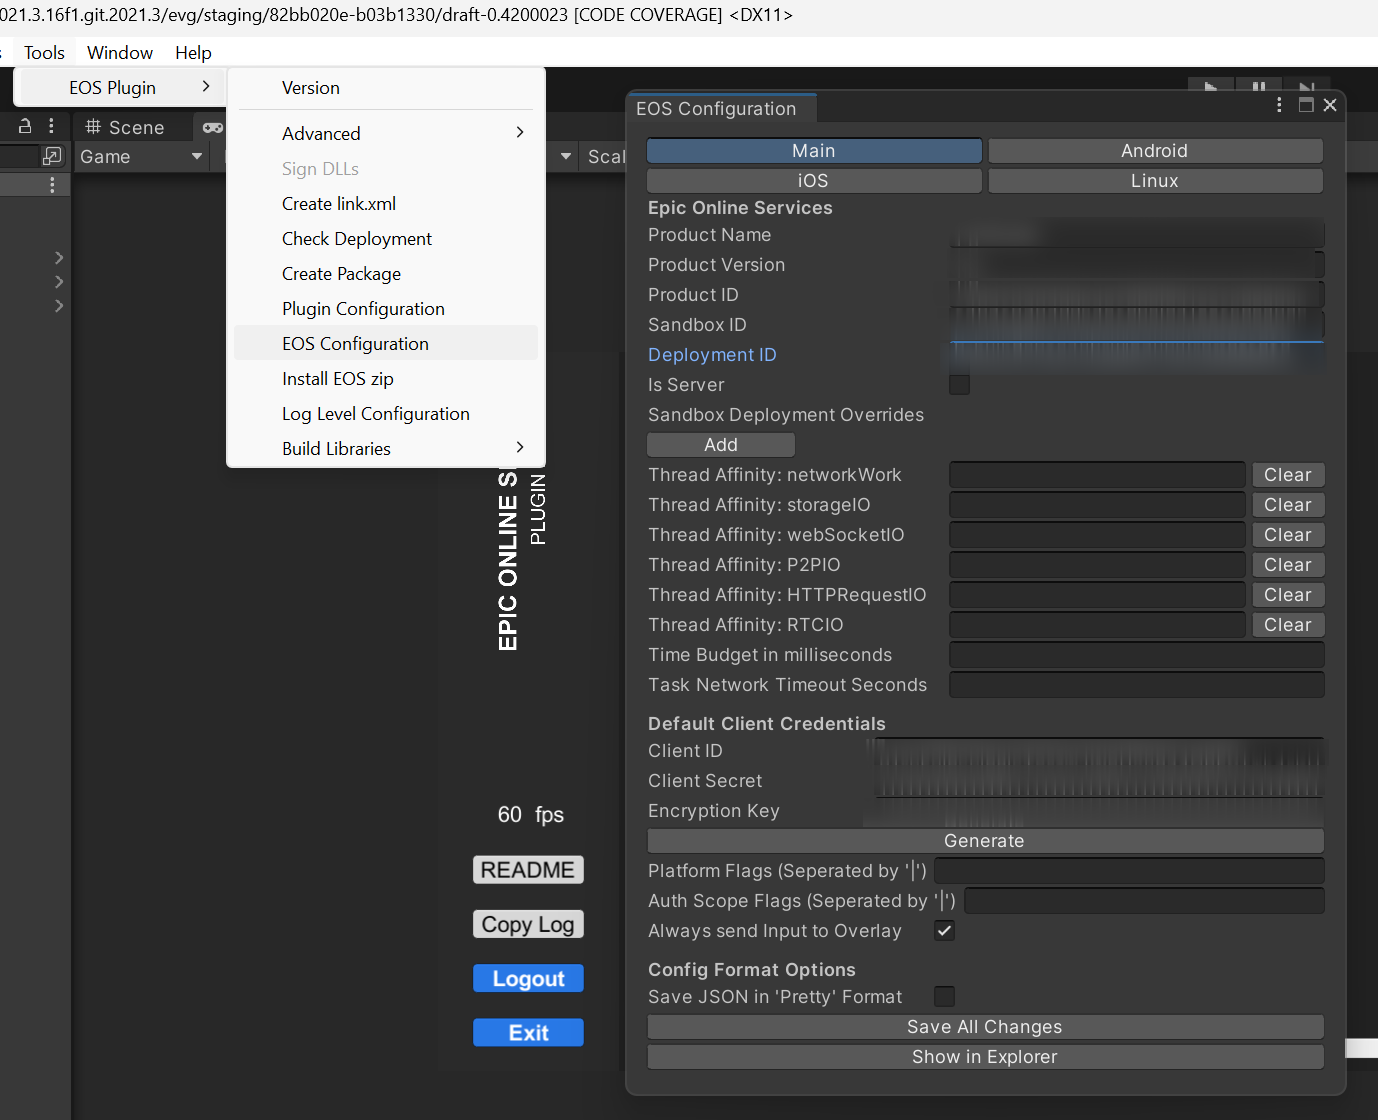
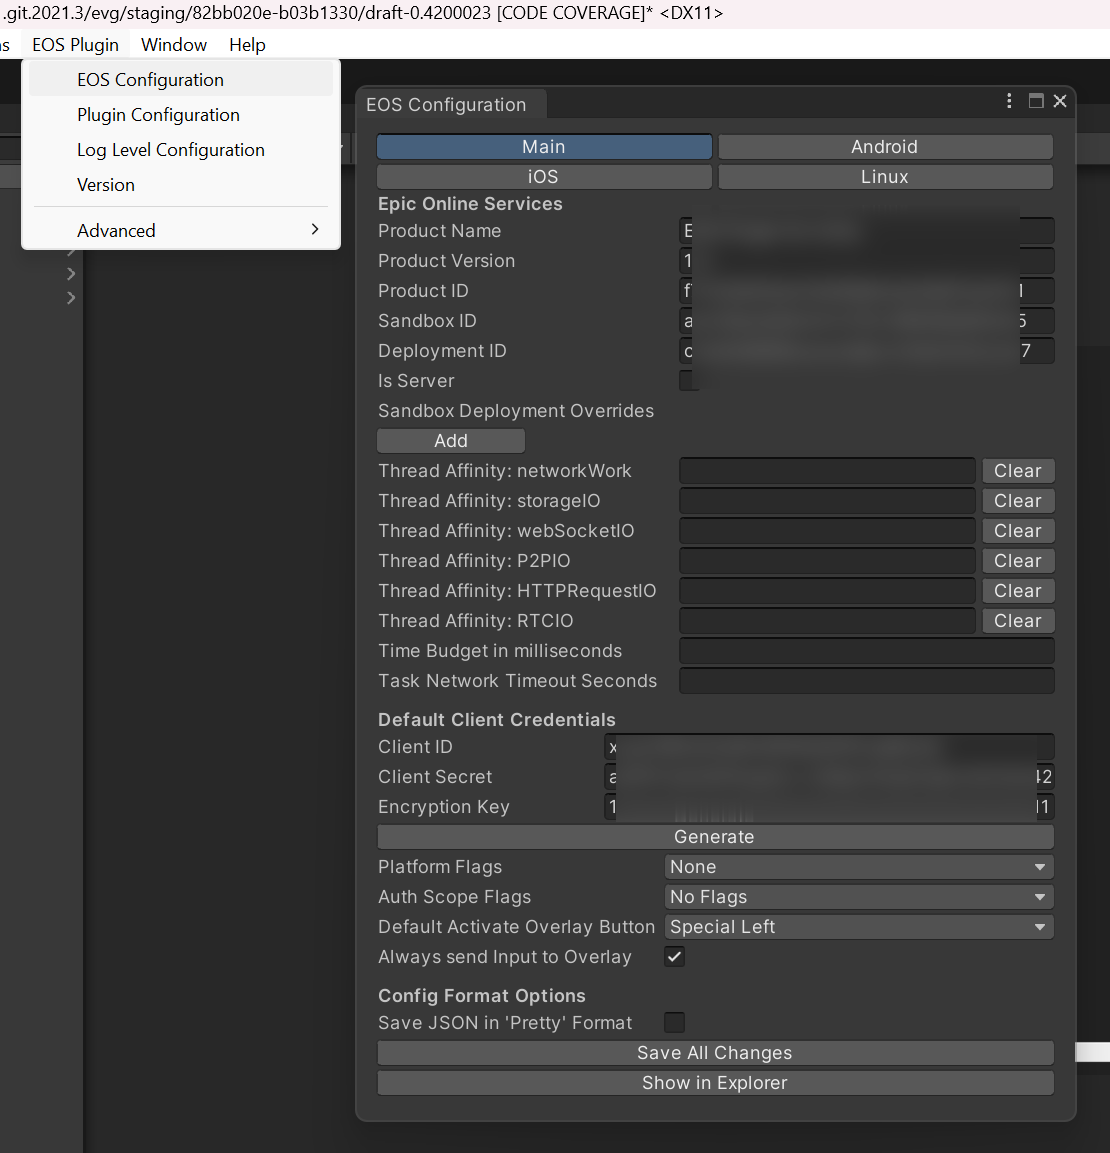
docs: Replacing text and links

Changed region(s): [[0.0, 0.0, 1.0, 1.0]]

diff --git a/com.playeveryware.eos/Documentation~/getting_started_guide/README.md b/com.playeveryware.eos/Documentation~/getting_started_guide/README.md
@@ -140,7 +140,7 @@ In the EOS Plugin for Unity project, the provided code with the plugin will give
 The Samples come with scenes that demonstrate the usage of the EOS Plugin for Unity's Manager classes for each Sample's domain.
 
 Next, follow [our documentation regarding how to configure the plugin](/com.playeveryware.eos/Documentation~/configure_plugin.md).
-Inside of Unity (using the menu bar), navigate to `Tools` -> `EOS Plugin` -> `EOS Configuration`.
+Inside of Unity (using the menu bar), navigate to `EOS Plugin` -> `EOS Configuration`.
 
 <p align="center" width="100%"><img src="/com.playeveryware.eos/Documentation~/getting_started_guide/plugin_eosconfiguration.png" alt="The EOS Configuration popup can be filled out using information in the Product Settings page."/><br/>
 <em>The EOS Configuration popup can be filled out using information in the Product Settings page.</em></p>

diff --git a/com.playeveryware.eos/Documentation~/easy_anticheat_configuration.md b/com.playeveryware.eos/Documentation~/easy_anticheat_configuration.md
@@ -12,7 +12,7 @@ The EOS plugin provides a method of automating EAC installation as part of the b
 
 ## Steps
 1) Open your Unity project with the plugin installed.
-2) Open the editor preferences settings for the plugin, which is avaiable in `Tools -> EOS Plugin -> Configuration`. All EAC options are located under the Tools subheader.
+2) Open the editor preferences settings for the plugin, which is avaiable in `EOS Plugin -> Configuration`. All EAC options are located under the Tools subheader.
 3) Enable EAC build steps by checking the `Use EAC` toggle.
 4) Set `Path to EAC private key` and `Path to EAC Certificate` to the private and public keys you previously downloaded, respectively.
 5) (Recommended) Set `Path to EAC splash image` to a 800x450 PNG that will display in the EAC bootstrapper.

diff --git a/com.playeveryware.eos/Documentation~/frequently_asked_questions.md b/com.playeveryware.eos/Documentation~/frequently_asked_questions.md
@@ -135,7 +135,7 @@ Overlay errors are most likely due to not having the overlay installed, this is 
 
 Some native functionality are required for platform specific needs.  
 
-To get these dependent libraries, use the platform library build tool in the plugin at `Tools > EOS Plugin > Build Library > [Target Platform]`
+To get these dependent libraries, use the platform library build tool in the plugin at `EOS Plugin > Advanced > Build Library > [Target Platform]`
 
 Or to install the libraries manually, go to the `lib/NativeCode` folder, find the target platform, and *build the `.sln`* or *`run the makefile`* in the folder.
 

diff --git a/com.playeveryware.eos/Documentation~/configure_plugin.md b/com.playeveryware.eos/Documentation~/configure_plugin.md
@@ -5,7 +5,7 @@
 To function, the plugin needs some information from your EOS project. Be sure to read the Epic Documentation on [getting started](https://dev.epicgames.com/docs/epic-account-services/getting-started?sessionInvalidated=true) with Epic Online Services.
 
 1) Open your Unity project with the integrated EOS Unity Plugin. 
-2) In the Unity editor, Open ```Tools -> EOS Plugin -> Dev Portal Configuration```.
+2) In the Unity editor, Open ```EOS Plugin -> EOS Configuration```.
 
     ![EOS Config Menu](/com.playeveryware.eos/Documentation~/images/dev-portal-configuration-editor-menu.png)
 

diff --git a/com.playeveryware.eos/Documentation~/upgrading_to_new_versions_of_eos.md b/com.playeveryware.eos/Documentation~/upgrading_to_new_versions_of_eos.md
@@ -57,7 +57,7 @@ new plugin can be generated.
 These steps are for upgrading the EOS SDK as a maintainer of the repo.
 There is a tool that one can use install new versions of the SDK, located under
 
-`Tools -> EOS Plugin -> Install EOS Zip`
+`EOS Plugin -> Install EOS Zip`
 
 It requires a JSON description file to direct it where to put the files in the zip,
 and a zip file that contains the SDK. The latest version of the SDK can be downloaded from

diff --git a/com.playeveryware.eos/Documentation~/dev_env/Ubuntu_Development_Environment.md b/com.playeveryware.eos/Documentation~/dev_env/Ubuntu_Development_Environment.md
@@ -95,7 +95,7 @@ Once Unity is open:
 1. Go to File ➝ Build Settings
 2. Switch the platform to "Dedicated Server."
 3. Click on the button labeled "Player Settings..." at the bottom left.
-4. Go to Tools ➝ EOS Automated Test Settings
+4. Go to EOS Plugin ➝ Advanced ➝ EOS Automated Test Settings
 5. Select the previously created `Builds/Server` directory for the "Test Server Directory" field.
 
 ## Help! I ran out of disk space!

diff --git a/com.playeveryware.eos/Documentation~/creating_the_upm_package.md b/com.playeveryware.eos/Documentation~/creating_the_upm_package.md
@@ -8,7 +8,7 @@ This tool (while a bit rough around the edges) allows for the generation of cust
 
 ## Steps to generate a UPM package
 
-1. Go to `Tools -> EOS Plugin -> Create Package`.
+1. Go to `EOS Plugin -> Advanced -> Create Package`.
 
     <img src="images/create-package-menu.png" width="300" />
 
